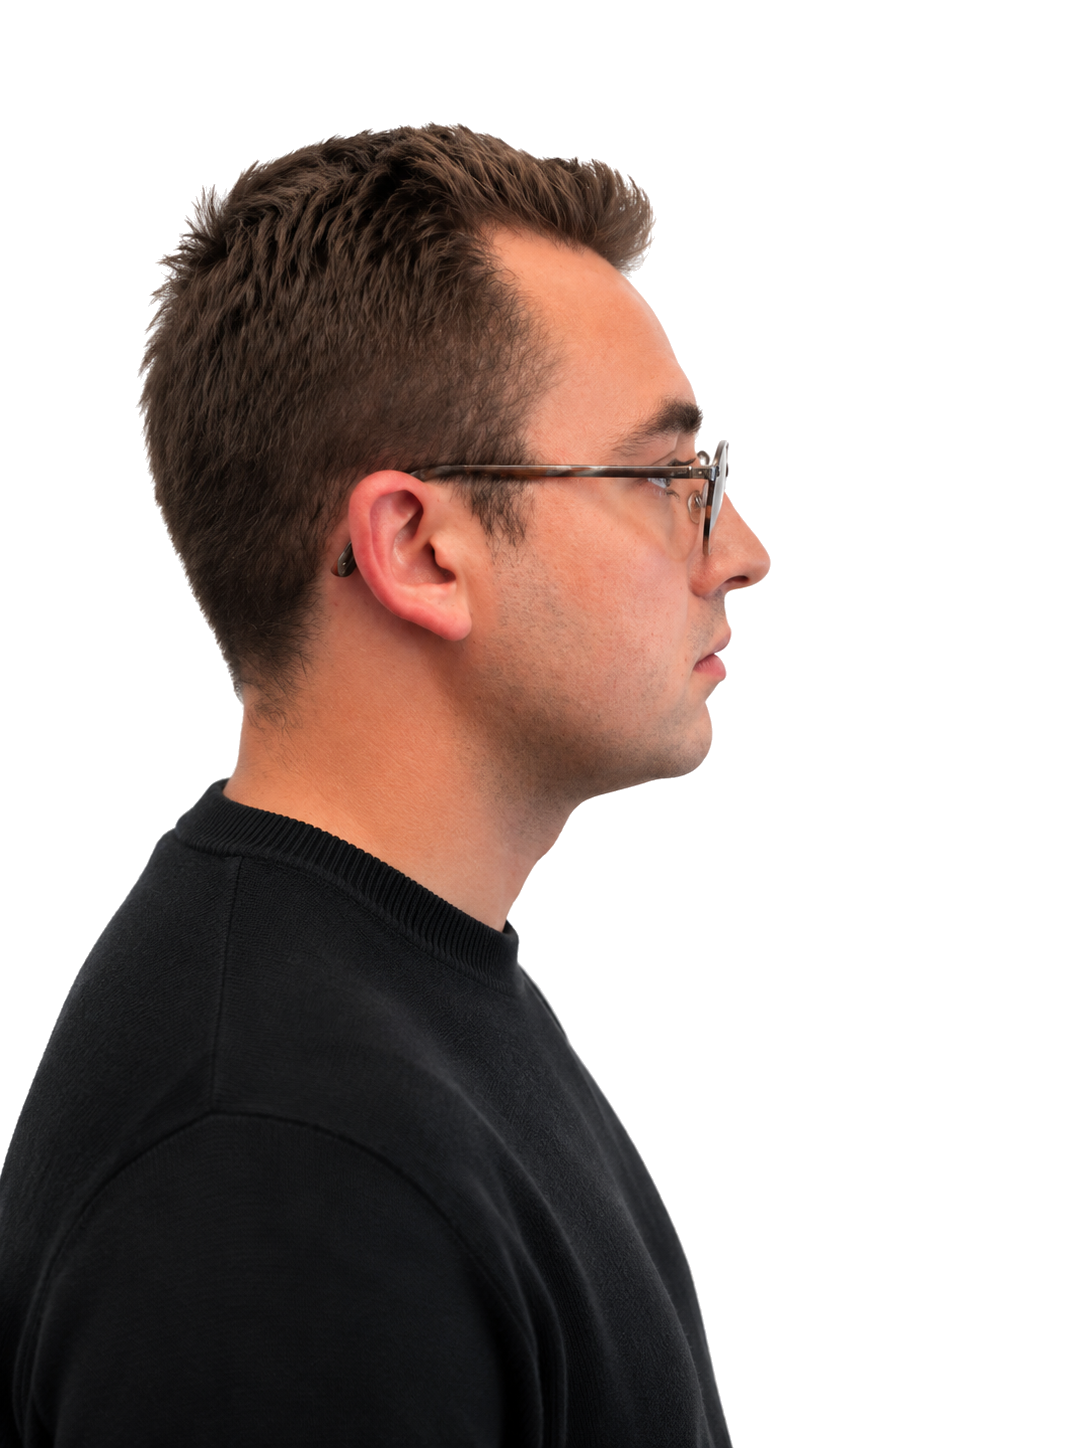
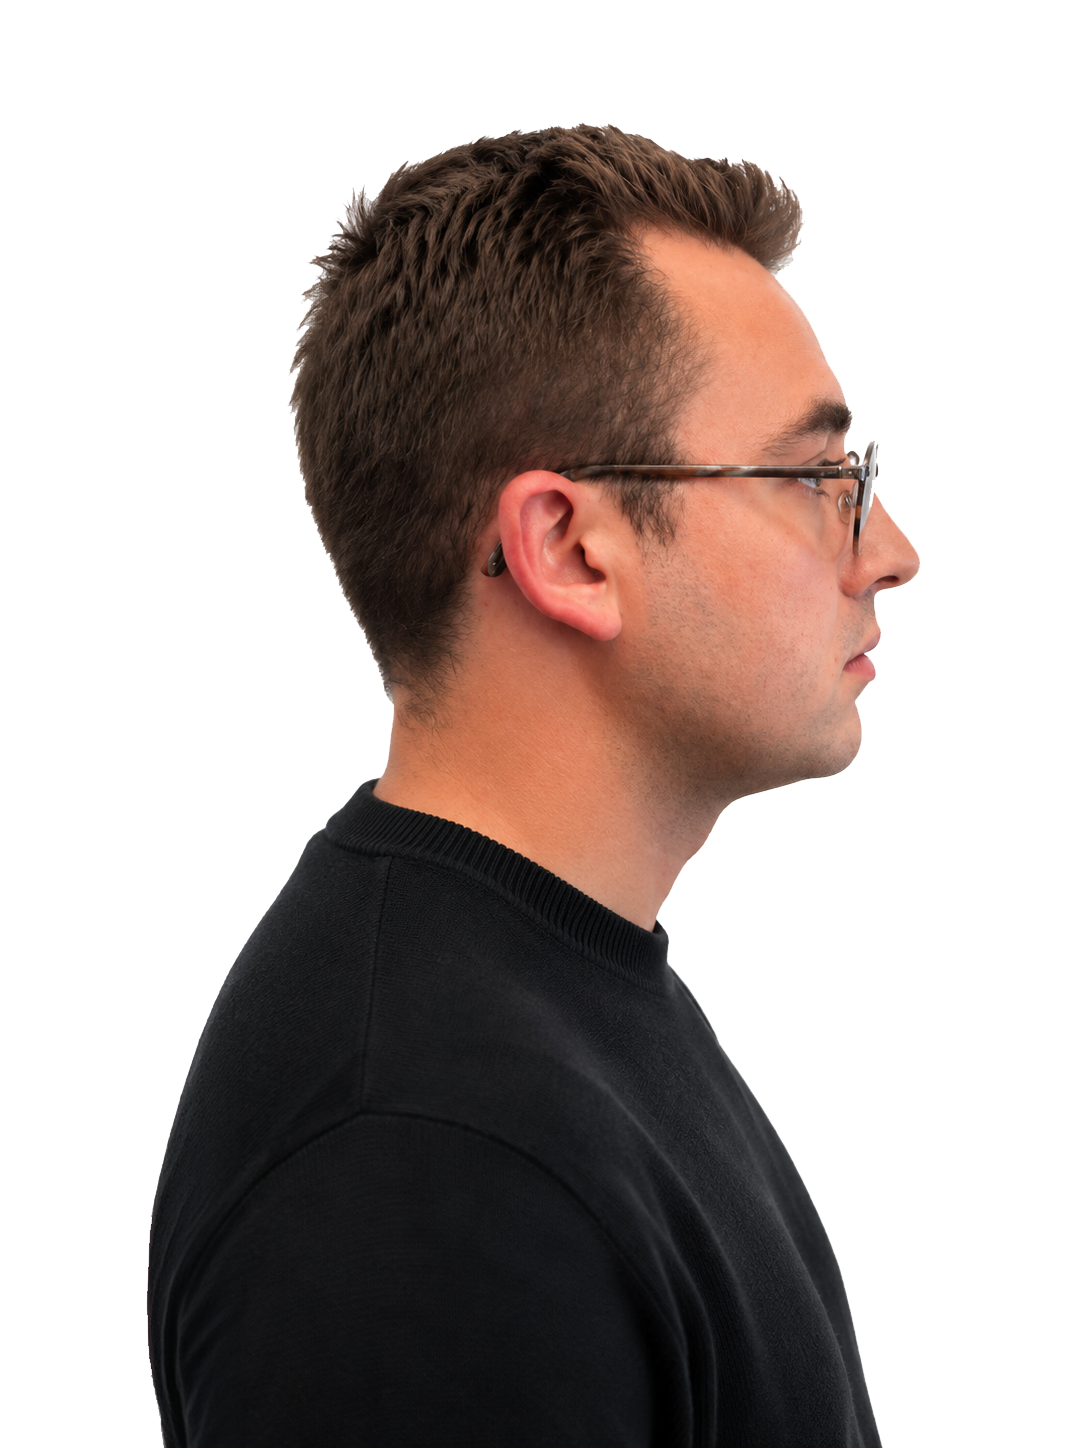
feat(hero): bottom-anchored portrait + new image (back of head not cropped)
- replace quentin-profile.png with new RGBA version (1086x1448, alpha
  channel already there, no PIL processing needed)
- restructure layout: portrait + gradient circle absolutely positioned
  at section bottom (instead of inside the grid center column)
- grid now uses 3 cols [1fr | 46vw spacer | 1fr] to leave room for the
  absolute-positioned portrait between left text and right huge text
- portrait img is bottom: 0, h-full of an 85%-height wrapper, so the
  sweater base touches the section's bottom edge
- circle + halo positioned at top: 8% of the portrait wrapper, so the
  gradient sits behind the head not the body
- footer z-30 stays above the portrait that extends to bottom

diff --git a/src/components/Hero.tsx b/src/components/Hero.tsx
@@ -2,16 +2,10 @@ import { Mail } from "lucide-react";
 import type { ComponentType, SVGProps } from "react";
 
 /**
- * Hero v9.1 — Minimalist editorial (no framer-motion entrance animations).
- * Layout: 3-column grid
- *   • Left  : short pitch + Read More
- *   • Center: gradient circle + side-profile portrait
- *   • Right : huge overlay text "moins / de clic."
- *
- * Note: entrance animations dropped to avoid the motion/react + Astro SSR
- * hydration bug (elements stuck at initial opacity: 0). Effects kept:
- *   - CSS @keyframes aurora on the conic ring (rotates slowly)
- *   - CSS @keyframes fade-up applied via class (purely CSS, no JS)
+ * Hero v9.2 — Minimalist editorial.
+ * Portrait + gradient circle absolutely positioned at the bottom-center of
+ * the section, so the bottom of the body touches the bottom border of the
+ * hero. Left text + huge right text flank the portrait.
  */
 type IconComponent = ComponentType<SVGProps<SVGSVGElement>>;
 
@@ -45,7 +39,7 @@ export default function Hero() {
       className="relative flex w-full flex-col items-center justify-between overflow-hidden bg-white p-6 font-sans md:p-12"
       style={{ minHeight: "100svh" }}
     >
-      {/* Subtle 80px grid pattern */}
+      {/* Subtle grid pattern */}
       <div
         aria-hidden
         className="pointer-events-none absolute inset-0 opacity-[0.04]"
@@ -56,12 +50,55 @@ export default function Hero() {
         }}
       />
 
+      {/* PORTRAIT + CIRCLE — absolutely anchored to the bottom of the section */}
+      <div
+        aria-hidden="false"
+        className="pointer-events-none absolute inset-x-0 bottom-0 z-10 flex justify-center"
+        style={{ height: "85%" }}
+      >
+        <div className="relative h-full" style={{ width: "min(46vw, 540px)" }}>
+          {/* Soft glow halo around the head area */}
+          <div
+            aria-hidden
+            className="hero-fade-pop absolute left-1/2 -translate-x-1/2 rounded-full opacity-50 blur-3xl"
+            style={{
+              top: "8%",
+              width: "min(40vw, 480px)",
+              height: "min(40vw, 480px)",
+              background:
+                "conic-gradient(from 0deg, #7c3aed, #c026d3, #dc2626, #7c3aed)",
+              animation:
+                "aurora 18s linear infinite, hero-fade-pop 0.9s cubic-bezier(0.22,1,0.36,1) 0.2s forwards",
+            }}
+          />
+          {/* Solid gradient circle, sized & positioned around the head */}
+          <div
+            aria-hidden
+            className="hero-fade-pop absolute left-1/2 -translate-x-1/2 rounded-full"
+            style={{
+              top: "8%",
+              width: "min(36vw, 440px)",
+              height: "min(36vw, 440px)",
+              background:
+                "linear-gradient(135deg, #7c3aed 0%, #c026d3 50%, #dc2626 100%)",
+            }}
+          />
+          {/* Portrait — bottom-anchored, extends upward through the circle */}
+          <img
+            src="/quentin-profile.png"
+            alt="Quentin DUROY, profil de côté"
+            className="hero-fade hero-fade-up absolute bottom-0 left-1/2 block w-full -translate-x-1/2"
+            style={{ height: "100%", objectFit: "contain", objectPosition: "center bottom" }}
+            draggable={false}
+          />
+        </div>
+      </div>
+
       {/* HEADER */}
-      <header className="hero-fade z-30 flex w-full max-w-7xl items-center justify-between">
+      <header className="hero-fade relative z-30 flex w-full max-w-7xl items-center justify-between">
         <a href="#hero" className="text-xl font-bold tracking-tight text-neutral-900">
           quentin-duroy<span className="text-violet-600">.</span>
         </a>
-
         <nav className="hidden items-center space-x-8 md:flex">
           {navLinks.map((link) => (
             <a
@@ -73,7 +110,6 @@ export default function Hero() {
             </a>
           ))}
         </nav>
-
         <a
           href="#contact"
           className="hidden rounded-full px-4 py-2 text-xs font-medium tracking-wider text-white transition-all hover:-translate-y-0.5 md:inline-block"
@@ -91,10 +127,10 @@ export default function Hero() {
         </button>
       </header>
 
-      {/* MAIN GRID */}
-      <div className="relative grid w-full max-w-7xl flex-grow grid-cols-1 items-center gap-8 md:grid-cols-3">
+      {/* SIDE COLUMNS — flank the portrait */}
+      <div className="relative z-20 grid w-full max-w-7xl flex-grow grid-cols-1 items-center gap-8 md:grid-cols-[1fr_minmax(0,46vw)_1fr]">
         {/* LEFT — short pitch */}
-        <div className="hero-fade hero-fade-1 z-20 order-2 text-center md:order-1 md:text-left">
+        <div className="hero-fade hero-fade-1 order-2 text-center md:order-1 md:text-left">
           <p className="mx-auto max-w-xs text-sm leading-relaxed text-neutral-700 md:mx-0">
             Référent IA &amp; Chef de Projet Web à l'Office de Tourisme du Pays
             de Manosque. Fondateur de LOGIQ IA. J'automatise les workflows pour
@@ -120,38 +156,11 @@ export default function Hero() {
           </div>
         </div>
 
-        {/* CENTER — gradient circle + portrait */}
-        <div className="relative order-1 flex h-full items-center justify-center md:order-2">
-          {/* Soft glow ring (always-on aurora animation) */}
-          <div
-            aria-hidden
-            className="absolute z-0 h-[320px] w-[320px] rounded-full opacity-50 blur-2xl md:h-[440px] md:w-[440px] lg:h-[540px] lg:w-[540px]"
-            style={{
-              background:
-                "conic-gradient(from 0deg, #7c3aed, #c026d3, #dc2626, #7c3aed)",
-              animation: "aurora 18s linear infinite",
-            }}
-          />
-          {/* Main solid gradient circle */}
-          <div
-            className="hero-fade hero-fade-pop absolute z-0 h-[300px] w-[300px] rounded-full md:h-[400px] md:w-[400px] lg:h-[500px] lg:w-[500px]"
-            style={{
-              background:
-                "linear-gradient(135deg, #7c3aed 0%, #c026d3 50%, #dc2626 100%)",
-            }}
-          />
-          {/* Portrait */}
-          <img
-            src="/quentin-profile.png"
-            alt="Quentin DUROY, profil de côté"
-            className="hero-fade hero-fade-up relative z-10 h-auto w-56 scale-[1.45] object-cover md:w-64 lg:w-72"
-            style={{ objectPosition: "center bottom" }}
-            draggable={false}
-          />
-        </div>
+        {/* CENTER — spacer for the absolutely-positioned portrait */}
+        <div className="hidden md:block" aria-hidden />
 
         {/* RIGHT — huge overlay text */}
-        <div className="hero-fade hero-fade-2 z-20 order-3 flex items-center justify-center text-center md:justify-end md:text-right">
+        <div className="hero-fade hero-fade-2 order-3 flex items-center justify-center text-center md:justify-end md:text-right">
           <h1 className="text-6xl font-black leading-none tracking-tighter text-neutral-900 sm:text-7xl md:text-7xl lg:text-8xl xl:text-[9rem]">
             moins
             <br />
@@ -162,8 +171,8 @@ export default function Hero() {
         </div>
       </div>
 
-      {/* FOOTER */}
-      <footer className="hero-fade hero-fade-3 z-30 flex w-full max-w-7xl items-center justify-between">
+      {/* FOOTER — z-30 to stay above the portrait that extends to bottom */}
+      <footer className="hero-fade hero-fade-3 relative z-30 flex w-full max-w-7xl items-center justify-between">
         <div className="flex items-center space-x-5">
           {socialLinks.map((link) => (
             <a
